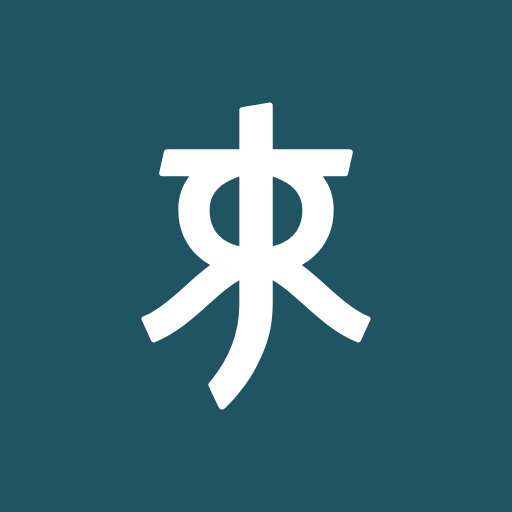
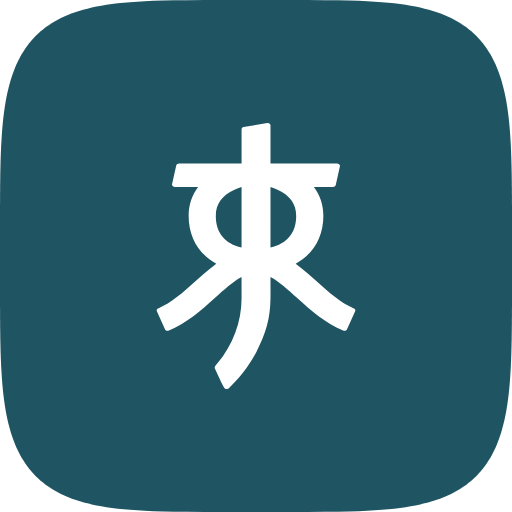
Arda Top v15.04: splash uniforme turchese e icona a squircle
Lo splash di sistema e' fatto di background_color piu' l'icona centrata, e la
dimensione dell'icona non e' governabile. Rendendo il fondo dell'icona
identico al background_color (#1f5562 in entrambi), il riquadro scompare nel
fondo e resta solo il glifo: schermo pieno turchese col logo piccolo al
centro, uguale nei due temi, che era la richiesta.

theme_color del manifest a turchese per la stessa coerenza. ⚠ Il meta
theme-color della pagina resta #060a14: sono due canali distinti, il primo
colora l'app installata e il secondo la barra del browser, che non deve
cambiare aspetto.

L'icona 'any' diventa uno squircle: superellisse |x|^n + |y|^n = 1 con n=4.6
campionata a 256 punti, che a 512px e' indistinguibile da una curva e non
dipende da approssimazioni di border-radius. Gli angoli restano TRASPARENTI
(misurato sui pixel: alpha 0 negli angoli, fondo 31,85,98 al centro), o sullo
splash ricomparirebbe il quadrato sopra il fondo uniforme. La maskable resta
un quadrato pieno, perche' la ritaglia il launcher e un doppio ritaglio
mangerebbe il glifo.

Rimossa la variante oro su blu: con lo splash turchese in entrambi i temi la
questione delle due icone per tema e' decaduta, e il generatore la sa rifare
in una riga se servisse.

Gate W3C non ripetuto perche' e' un +0,01 e in index.html la porzione non-JS
cambia solo nel numero del badge; l'ultima validazione 0/0 e' della v15.03.

diff --git a/arda/top/dati.js b/arda/top/dati.js
@@ -1,4 +1,4 @@
-var datiVersion = "15.03";
+var datiVersion = "15.04";
 var cardColors = {"fam":{"noldo":{"dark":"#5b95e1","light":"#1d61b9"},"sinda":{"dark":"#2bb8a6","light":"#159e8f"},"maia":{"dark":"#6ad276","light":"#2fa73c"},"rohir":{"dark":"#9fb641","light":"#8a9a2a"},"vala":{"dark":"#ff3d9a","light":"#d60067"},"orc":{"dark":"#a06be0","light":"#7a3fce"},"beast":{"dark":"#d5a568","light":"#aa732c"},"man":{"dark":"#9098a8","light":"#6f7482"},"half-elf":{"dark":"#3dd8ff","light":"#00abd6"},"numenorean":{"dark":"#eb5151","light":"#c41212"},"hobbit":{"dark":"#ff9b3d","light":"#d66700"},"dwarf":{"dark":"#ffef3d","light":"#d6c400"},"shadow":{"dark":"#b88493","light":"#894d5f"},"vanya":{"dark":"#3df2ff","light":"#00c8d6"},"adan":{"dark":"#ee9b4e","light":"#c8680e"}},"map":{"type-noldo":"noldo","type-half-elf":"half-elf","type-sinda":"sinda","type-teler":"sinda","type-vanya":"vanya","type-falma":"sinda","type-eagle":"sinda","type-maia":"maia","type-ent":"maia","type-spirit":"maia","type-rohir":"rohir","type-northman":"rohir","type-eotheod":"rohir","type-hobbit":"hobbit","type-dwarf":"dwarf","type-hador":"adan","type-beor":"adan","type-haleth":"adan","type-dunadan":"numenorean","type-numenorean":"numenorean","type-dragon":"shadow","type-wolf":"shadow","type-balrog":"shadow","type-spider":"shadow","type-vala":"vala","type-valie":"vala","type-orc":"orc","type-shadow":"orc","type-mystery":"orc","type-morgoth":"orc","type-troll":"orc","type-darkmaia":"orc","type-beast":"beast","type-fallback":"man"}};
 var badgeAdjust = {"aratar":{"ml":0,"mr":0,"ny":0,"sc":1},"calaquende":{"ml":-0.075,"mr":-0.06,"ny":-0.04,"sc":1},"silmaril":{"ml":-0.05,"mr":0,"ny":-0.02,"sc":1},"incarnazione":{"ml":-0.05,"mr":0,"ny":-0.075,"sc":0.98},"helcaraxe":{"ml":-0.1,"mr":-0.11,"ny":0,"sc":1},"morgoth":{"ml":-0.015,"mr":-0.06,"ny":0,"sc":1},"guerradira":{"ml":-0.05,"mr":0,"ny":0,"sc":0.97},"suicidio":{"ml":-0.05,"mr":0,"ny":-0.03,"sc":1},"fellowship":{"ml":-0.03,"mr":-0.095,"ny":0,"sc":1},"istari":{"ml":-0.05,"mr":-0.05,"ny":0,"sc":1},"survivor":{"ml":0,"mr":0,"ny":0,"sc":1},"navi":{"ml":-0.05,"mr":-0.015,"ny":-0.065,"sc":1},"drago":{"ml":-0.05,"mr":0,"ny":-0.05,"sc":1},"balrog":{"ml":-0.06,"mr":0,"ny":-0.025,"sc":0.98},"king_std":{"ml":-0.056,"mr":-0.03,"ny":-0.095,"sc":1},"king_high":{"ml":-0.056,"mr":-0.03,"ny":-0.095,"sc":1},"king_high_now":{"ml":-0.056,"mr":0,"ny":-0.06,"sc":1},"onering":{"ml":-0.04,"mr":-0.04,"ny":-0.02,"sc":0.75},"ringelven":{"ml":-0.02,"mr":-0.02,"ny":-0.09,"sc":0.94},"ringdm":{"ml":-0.02,"mr":-0.02,"ny":-0.03,"sc":0.82},"male":{"ml":-0.04,"mr":0,"ny":-0.07,"sc":1},"female":{"ml":-0.04,"mr":0,"ny":0.195,"sc":1}};
 var siteFlags = {"zoomBig":false,"glow":{"on":true,"all":true,"pl":true,"pr":false,"ps":false,"pa":false,"amp_d":48,"amp_l":31,"int_d":0.16,"int_l":0.28,"oamp_d":40,"oamp_l":16,"oint_d":0.1,"oint_l":0.1,"aamp_d":36,"aamp_l":6,"aint_d":0.12,"aint_l":0.07},"glow_m":{"on":true,"all":true,"pl":true,"pr":true,"ps":false,"pa":true,"amp_d":60,"amp_l":60,"int_d":0.4,"int_l":0.16,"oamp_d":9,"oamp_l":9,"oint_d":0.2,"oint_l":0.2,"aamp_d":6,"aamp_l":6,"aint_d":0.05,"aint_l":0.05},"spot":{"on":true,"r":235,"int":0.04},"spot_m":{"on":false,"r":300,"int":0.04},"press":{"on":true,"name":true,"lab":false,"num":true},"press_m":{"on":true,"name":true,"lab":false,"num":true},"vig":{"on":true,"int":0.15,"start":70},"vig_m":{"on":true,"int":0.19,"start":33},"podium":{"on":true,"int_d":0.86,"int_l":0.86,"lum_d":1.4,"lum_l":1.14,"sat_d":1.16,"sat_l":1.18,"top_d":1,"top_l":0.74,"rifl_d":0.8,"rifl_l":0.8,"crisp_d":0.06,"crisp_l":0,"tamp_d":34,"tamp_l":27},"podium_m":{"on":false,"int_d":0.94,"int_l":0.98,"lum_d":1.4,"lum_l":1.12,"sat_d":1,"sat_l":1,"top_d":0.7,"top_l":0.7,"rifl_d":0.8,"rifl_l":0.8,"crisp_d":0,"crisp_l":0,"tamp_d":18,"tamp_l":18},"nums":{"on":true,"uni":true,"dsat":0.2,"dlum":0.84,"lsat":0.7,"llum":0.54},"nums_m":{"on":true,"uni":true,"dsat":0.3,"dlum":0.87,"lsat":0.3,"llum":0.5},"hov":{"on":true,"bd":false,"op_d":0.12,"op_l":0.09,"sat_d":1.25,"sat_l":1.1,"lum_d":1,"lum_l":1.24},"hov_m":{"on":false,"bd":true,"op_d":0.18,"op_l":0.11,"sat_d":1,"sat_l":1,"lum_d":1,"lum_l":1},"pat":{"on":false,"mot":"seme","c_d":"#ffc524","op_d":0.075,"c_l":"#447a87","op_l":0.145,"sc":1.8,"fade":260},"pat_m":{"on":false,"mot":"stars","c_d":"#ffffff","op_d":0.055,"c_l":"#000000","op_l":0.05,"sc":1,"fade":120}};

diff --git a/.memo/scripts/pwaicons.js b/.memo/scripts/pwaicons.js
@@ -22,30 +22,52 @@ const HTML = fs.readFileSync('arda/top/index.html', 'utf8');
 const path = HTML.match(/<path fill="currentColor" d="([^"]+)"\/><\/svg>';/)[1];
 const GW = 452, GH = 605.87;
 
-function svg(bg, fg, frac) {
-  const h = 512 * frac, s = h / GH, w = GW * s;
+// Lo SQUIRCLE e' una superellisse |x|^n + |y|^n = 1 campionata a 256 punti: a
+// 512px una polilinea cosi' densa e' indistinguibile da una curva, e non dipende
+// da alcuna approssimazione di border-radius. n=4.6 e' la 'spalla' continua degli
+// angoli iOS/Android, piu' piena di un rettangolo arrotondato.
+function squircle(size, n) {
+  const r = size / 2, pts = [];
+  for (let i = 0; i < 256; i++) {
+    const t = (i / 256) * 2 * Math.PI, c = Math.cos(t), s2 = Math.sin(t);
+    const x = r + Math.sign(c) * Math.pow(Math.abs(c), 2 / n) * r;
+    const y = r + Math.sign(s2) * Math.pow(Math.abs(s2), 2 / n) * r;
+    pts.push(x.toFixed(2) + ',' + y.toFixed(2));
+  }
+  return 'M' + pts.join('L') + 'Z';
+}
+
+// forma: 'squircle' (angoli continui, ANGOLI TRASPARENTI) o 'full' (quadrato
+// pieno, per la maskable che il launcher ritaglia da se').
+function svg(bg, fg, frac, forma) {
+  const h = 512 * frac, sc = h / GH, w = GW * sc;
   const tx = (512 - w) / 2, ty = (512 - h) / 2;
+  const fondo = forma === 'squircle'
+    ? '<path fill="' + bg + '" d="' + squircle(512, 4.6) + '"/>'
+    : '<rect width="512" height="512" fill="' + bg + '"/>';
   return `<svg xmlns="http://www.w3.org/2000/svg" width="512" height="512" viewBox="0 0 512 512">
-  <rect width="512" height="512" fill="${bg}"/>
-  <g transform="translate(${tx.toFixed(2)} ${ty.toFixed(2)}) scale(${s.toFixed(5)})"><path fill="${fg}" d="${path}"/></g>
+  ${fondo}
+  <g transform="translate(${tx.toFixed(2)} ${ty.toFixed(2)}) scale(${sc.toFixed(5)})"><path fill="${fg}" d="${path}"/></g>
 </svg>`;
 }
+
 // frac = altezza del glifo sul lato. 'any' respira; 'maskable' sta nella zona
 // sicura (80% centrale), o il launcher che ritaglia in tondo gli taglia le punte.
 const VARIANTI = [
-  { file: 'app-light', bg: '#1f5562', fg: '#ffffff', frac: 0.60 },
-  { file: 'app-light-maskable', bg: '#1f5562', fg: '#ffffff', frac: 0.46 },
-  { file: 'app-dark', bg: '#141824', fg: '#d2b25c', frac: 0.60 },
-  { file: 'app-dark-maskable', bg: '#141824', fg: '#d2b25c', frac: 0.46 }
+  { file: 'app-light', bg: '#1f5562', fg: '#ffffff', frac: 0.52, forma: 'squircle' },
+  { file: 'app-light-maskable', bg: '#1f5562', fg: '#ffffff', frac: 0.44, forma: 'full' }
 ];
+
 (async () => {
   const b = await chromium.launch({ executablePath: '/opt/pw-browsers/chromium' });
   for (const v of VARIANTI) {
-    fs.writeFileSync('arda/top/pwa/' + v.file + '.svg', svg(v.bg, v.fg, v.frac));
+    fs.writeFileSync('arda/top/pwa/' + v.file + '.svg', svg(v.bg, v.fg, v.frac, v.forma));
     for (const size of [192, 512]) {
       const p = await b.newPage({ viewport: { width: size, height: size }, deviceScaleFactor: 1 });
-      await p.setContent('<style>html,body{margin:0;padding:0;overflow:hidden}body>svg{display:block;width:' + size + 'px;height:' + size + 'px}</style>' + svg(v.bg, v.fg, v.frac));
-      await p.screenshot({ path: 'arda/top/pwa/' + v.file + '-' + size + '.png' });
+      await p.setContent('<style>html,body{margin:0;padding:0;overflow:hidden}body>svg{display:block;width:' + size + 'px;height:' + size + 'px}</style>' + svg(v.bg, v.fg, v.frac, v.forma));
+      // omitBackground: gli angoli dello squircle devono restare TRASPARENTI, o
+      // sullo splash si vedrebbe il quadrato sopra il fondo uniforme.
+      await p.screenshot({ path: 'arda/top/pwa/' + v.file + '-' + size + '.png', omitBackground: true });
       await p.close();
     }
   }

diff --git a/arda/top/index.html b/arda/top/index.html
@@ -2662,7 +2662,7 @@ var FEATURES = { genderLegendPill: false, langSwitchMobile: false, oneRing: 'A',
 <body>
 <header>
   <div class="brand-corner">
-    <a class="home-link" href="https://roccobot.me" target="_blank" rel="noopener">roccobot.me</a><span class="version-badge"><span class="vb-v">v</span>15.03</span>
+    <a class="home-link" href="https://roccobot.me" target="_blank" rel="noopener">roccobot.me</a><span class="version-badge"><span class="vb-v">v</span>15.04</span>
   </div>
   <button class="lang-switch" id="lang-switch" aria-label="Switch language"><span class="ls-face">EN</span><span class="ls-measure" aria-hidden="true">EN</span></button>
   <div class="crest" id="crest">Roccobot presenta</div>

diff --git a/arda/top/CLAUDE.md b/arda/top/CLAUDE.md
@@ -105,37 +105,51 @@ serve.
 
 ## 📲 App installabile (PWA)
 
-**Com'è fatto** (dalla v15.03). `arda/top/manifest.webmanifest` (nome **'Arda Roccobot'**,
-`short_name` 'Arda', `display: standalone`, scope e `start_url` su `/arda/top/`), quattro icone
-in `arda/top/pwa/` (192 e 512, `any` e `maskable`), `apple-touch-icon` per iOS che il manifest
-non guarda, e `arda/top/sw.js`. Le icone **non sono un disegno a parte: sono il glifo del FAB**,
-estratto da `index.html` e rasterizzato da `.memo/scripts/pwaicons.js`. Colori presi dal FAB
-reale: turchese `#1f5562` con glifo bianco (la variante del tema chiaro), oppure glifo oro
-`#d2b25c` su blu scuro desaturato `#141824`.
+**Com'è fatto** (dalla v15.03, splash e squircle dalla v15.04). `arda/top/manifest.webmanifest`
+(nome **'Arda Roccobot'**, `short_name` 'Arda', `display: standalone`, scope e `start_url` su
+`/arda/top/`), quattro icone in `arda/top/pwa/`, `apple-touch-icon` per iOS che il manifest non
+guarda, e `arda/top/sw.js`. Le icone **non sono un disegno a parte: sono il glifo del FAB**,
+estratto da `index.html` e rasterizzato da `.memo/scripts/pwaicons.js`. Colori dal FAB reale:
+turchese `#1f5562` con glifo bianco.
 
+- **Lo splash è uniforme perché il fondo dell'icona COINCIDE col `background_color`**, ed è così
+  che si ottiene 'schermo pieno turchese col logo piccolo al centro' (richiesta dell'utente):
+  lo splash di sistema è fatto di `background_color` più l'icona centrata, e la dimensione
+  dell'icona non è governabile. Rendendo il riquadro dello stesso colore del fondo, il riquadro
+  **scompare** e resta solo il glifo. `theme_color` è turchese per la stessa coerenza.
+  - ⚠ **Il `theme_color` del manifest e il `<meta name="theme-color">` sono DUE canali
+    distinti**: il primo colora l'app installata, il secondo la barra del browser. Il meta resta
+    `#060a14` di proposito, così l'aspetto in-browser non cambia.
+  - ⚠ **Gli angoli dello squircle devono restare TRASPARENTI** (misurato: alpha 0 negli angoli,
+    fondo `31,85,98` che è esattamente il `background_color`): con gli angoli opachi sullo splash
+    ricomparirebbe il quadrato sopra il fondo uniforme. Nel generatore lo garantisce
+    `omitBackground` dello screenshot.
+- **Squircle, non rettangolo arrotondato**: superellisse `|x|^n + |y|^n = 1` con n=4.6,
+  campionata a 256 punti, che a 512px è indistinguibile da una curva e non dipende da
+  approssimazioni di `border-radius`. Riguarda la sola icona `any`: la **maskable resta un
+  quadrato pieno**, perché è il launcher a ritagliarla e un doppio ritaglio mangerebbe il glifo.
 - ⚠⚠ **Il service worker NON ha cache, e non è una dimenticanza.** Esiste solo perché i
   browser Chromium chiedono un worker con handler `fetch` per offrire 'Installa app'; il suo
   handler è **inerte** e lascia passare tutto in rete. Una cache lì sarebbe un difetto grave e
   **silenzioso**: `dati.js` cambia a ogni salvataggio admin e a ogni bump, quindi il sito
-  servirebbe la classifica vecchia **con il deploy verde e la sonda sul file grezzo che
-  conferma la pubblicazione**, cioè con tutte le spie a posto.
+  servirebbe la classifica vecchia **con il deploy verde e la sonda sul file grezzo che conferma
+  la pubblicazione**, cioè con tutte le spie a posto.
   - ⚠ Un worker registrato **sopravvive alla cancellazione del file**: se un domani lo si
-    rimuove, va disattivato anche per chi ce l'ha (unregister), o continuera' a governare
-    quello scope nei browser altrui.
-- ⚠⚠ **DUE icone per due temi di sistema NON sono possibili**, ed era la richiesta: il
-  manifest non conosce `prefers-color-scheme`, e su Android l'icona viene **fissata al momento
-  dell'installazione** (WebAPK), quindi non segue il tema come fa il FAB in pagina. Le due
-  varianti sono entrambe committate e pronte; quella **installata** è la turchese, perché è
-  leggibile su qualunque sfondo di launcher, mentre l'oro su blu quasi nero si perde sui
-  wallpaper scuri. Cambiarla vuol dire cambiare i quattro `src` del manifest, niente di più.
+    rimuove, va disattivato anche per chi ce l'ha (unregister), o continuerà a governare quello
+    scope nei browser altrui.
+- ⚠⚠ **DUE icone per due temi di sistema NON sono possibili**, ed era la richiesta iniziale: il
+  manifest non conosce `prefers-color-scheme` e su Android l'icona viene **fissata al momento
+  dell'installazione** (WebAPK), quindi non segue il tema come fa il FAB in pagina. La questione
+  è **decaduta** con la scelta dello splash turchese in entrambi i temi: la variante oro su blu
+  è stata rimossa dal repo per non lasciare asset morti, e il generatore la sa rifare in una
+  riga se un domani servisse.
 - ⚠ **Il glifo si posiziona con `<g transform>`, non con un `<svg>` innestato**: un svg interno
   eredita le regole CSS che colpiscono `svg` e si ritrova ridimensionato. La prima passata del
   generatore produsse icone col simbolo gigante e tagliato proprio per questo.
-- **La `maskable` ha il glifo più piccolo** (46% del lato contro 60%): i launcher che ritagliano
-  in tondo mangiano il bordo, e la zona sicura è l'80% centrale. Sono due file distinti perché
-  un solo compromesso li serve male entrambi.
 - ⚠ **`favicon.png` e la favicon del sito NON sono state toccate**: l'icona dell'app è un'altra
   cosa, e cambiare la favicon non era richiesto.
+- ⚠ **Dopo un cambio di icona l'app va disinstallata e reinstallata**: Android tiene quella
+  fissata all'installazione, quindi un aggiornamento del manifest da solo non si vede.
 
 ## 🔎 Modalità ingrandita
 
